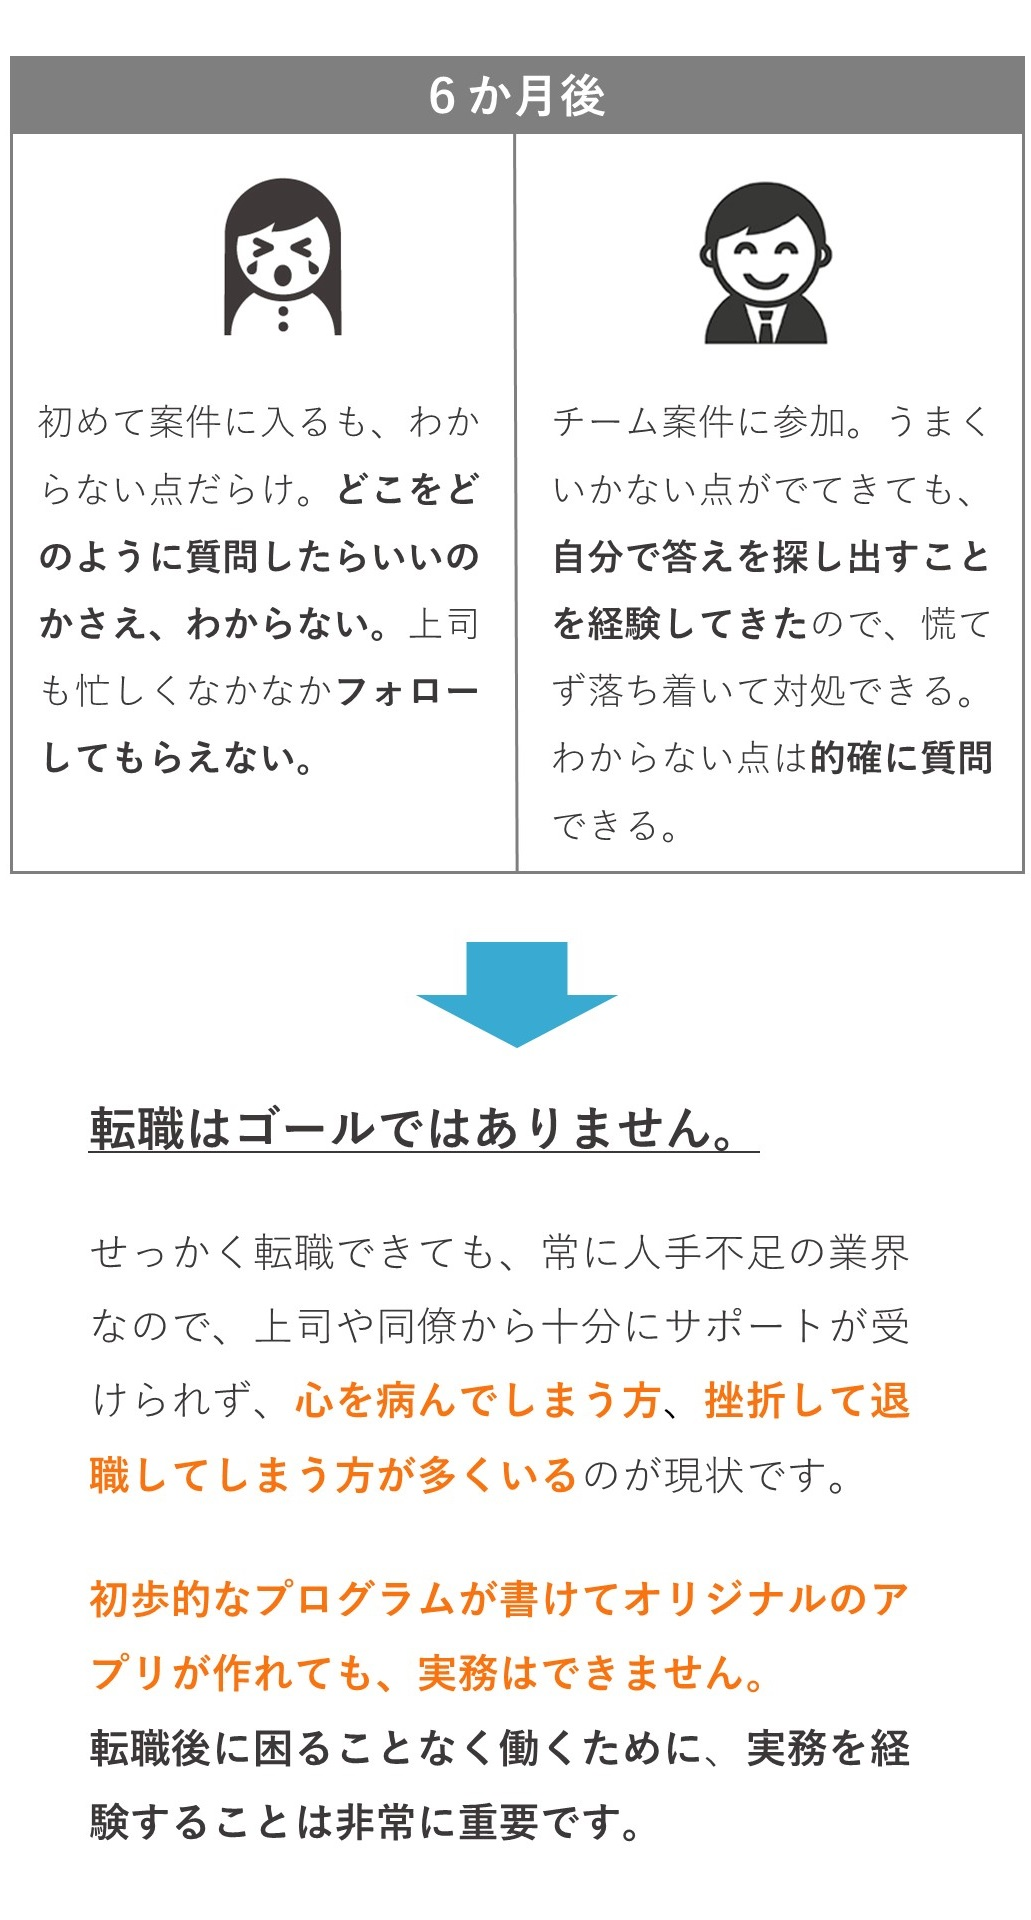
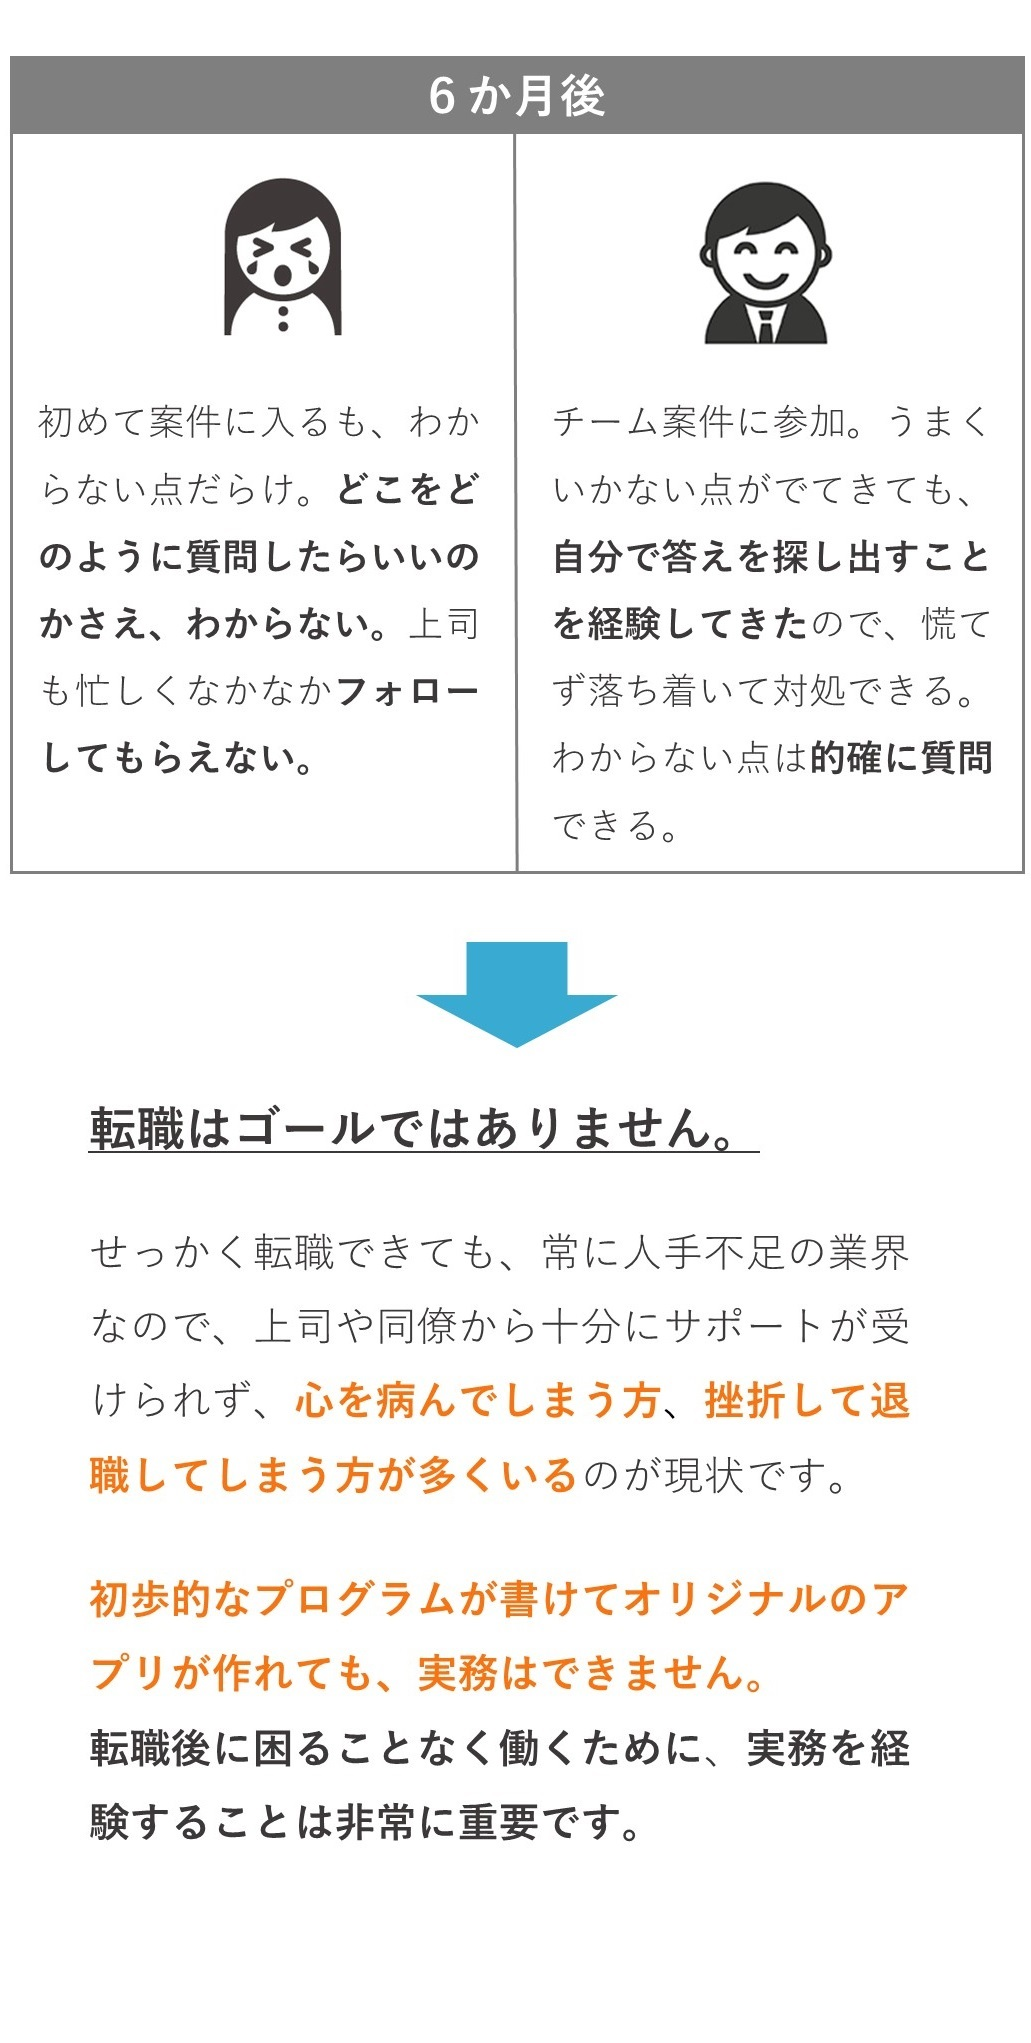
consumerスマホ版修正

Changed region(s): [[0.031, 0.0312, 0.9932, 0.9688], [0.5276, 0.1875, 0.5587, 0.2188], [0.2173, 0.6562, 0.2483, 0.6875]]

diff --git a/consumer/index.html b/consumer/index.html
@@ -184,7 +184,7 @@
 						<img class="s_dn s_yaji" src="img/s_yajirushi.JPG" />
 						<img class="s_dn" src="img/mobile_img14.JPG" />
 						<img class="s_dn" src="img/mobile_img15.JPG" />
-
+						<div class="s_dn blank">
 						<img class="mt6 p_dn" src="img/index_img07(new).jpg" />
 						<img class="pt3 p_dn" src="img/yajirushi.jpg" />			
 						<img class="pt3 p_dn" src="img/index_img08(new).jpg" />

diff --git a/consumer/style.css b/consumer/style.css
@@ -75,12 +75,13 @@ div#contents{
 .s_btn{
 	width: 50%;
 	position: absolute;
-	top: 37.5%;
+	top: 30.5%;
 	left: 25%;
 }
 .m_btn{
 	width: 80%;
 	padding-left: 10%;
+	top: 10%;
 }
 
 .voice{
@@ -106,6 +107,9 @@ div#contents{
 }
 .pb4{
 	padding-bottom: 4%;
+}
+.blank{
+	height: 40px;
 }
 div#footer{
 	background-color: #39aad1;
@@ -352,4 +356,5 @@ div#footer{
 .s_tuduki a{
 	color: #ffa500;
 }
+
 }
